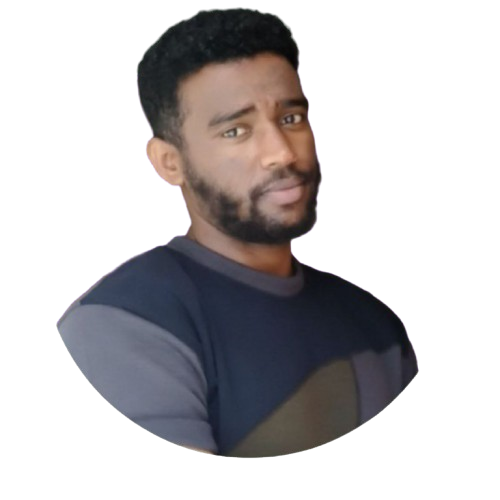
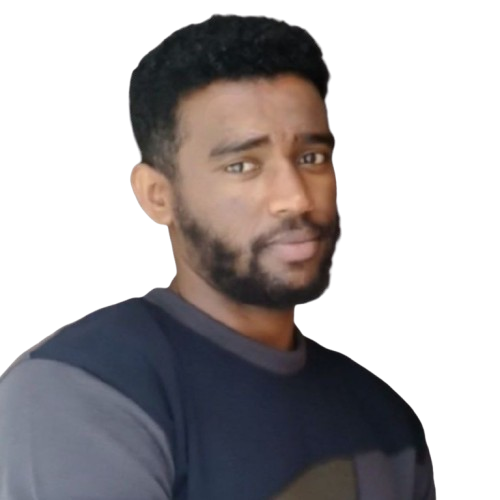
Add photot

diff --git a/src/components/Hero/Hero.tsx b/src/components/Hero/Hero.tsx
@@ -50,7 +50,7 @@ const Hero = () => {
               priority={true}
               sizes="(min-width: 1024px) 25.75rem, (min-width: 768px) 20rem, (min-width: 640px) 15rem, 14rem"
               alt="John Doe - Full Stack Developer"
-              className="rounded-full bg-gradient-to-r from-sky-950 via-cyan-950 to-teal-200 object-contain p-7"
+              className="rounded-full bg-gradient-to-r from-sky-950 via-cyan-950 to-teal-200 object-contain"
             />
             <Ellipse
               ref={ellipseRef}
